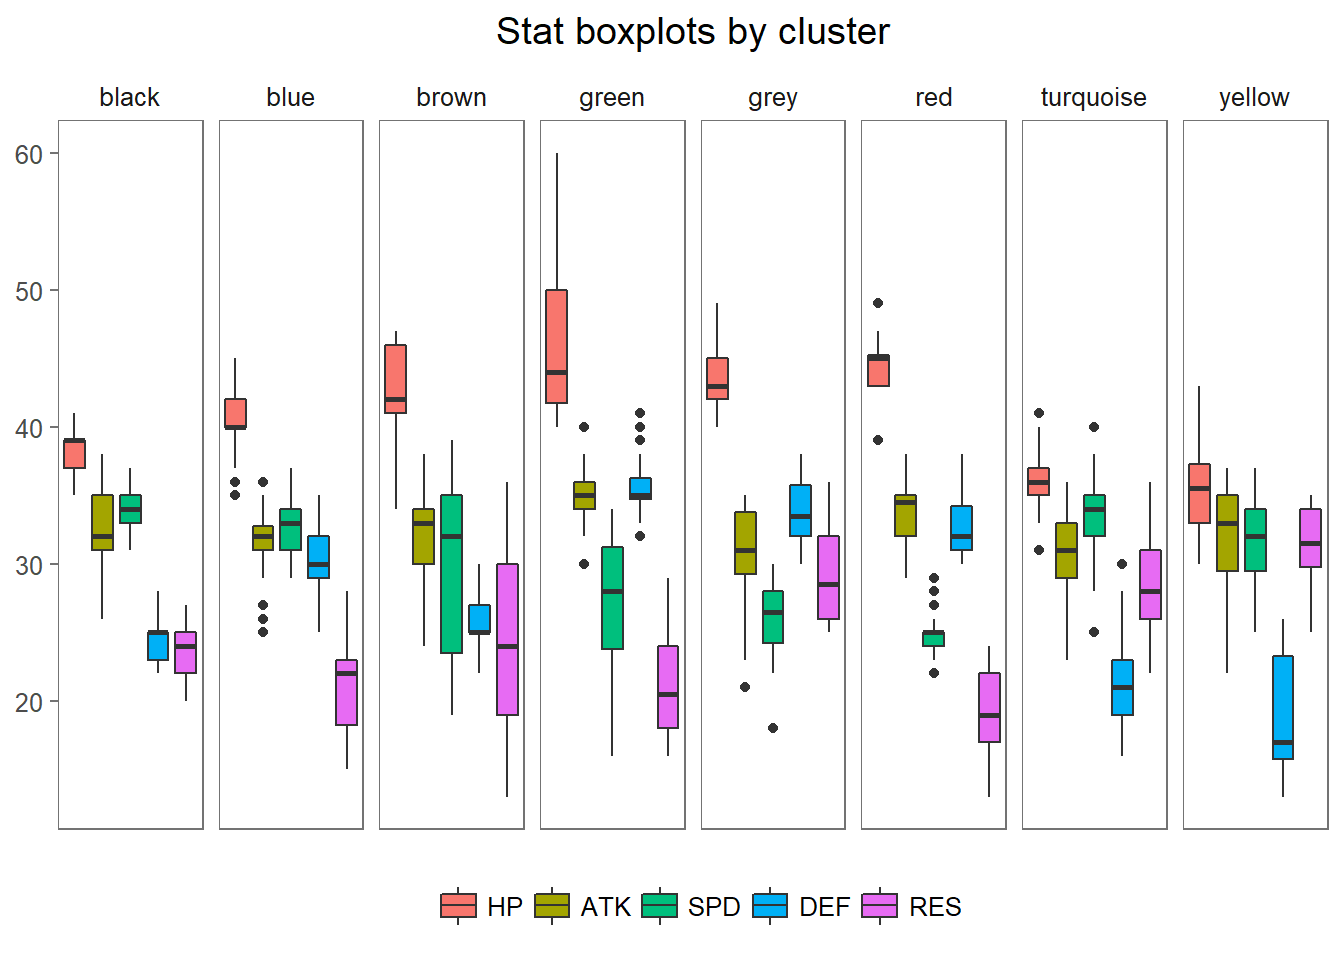
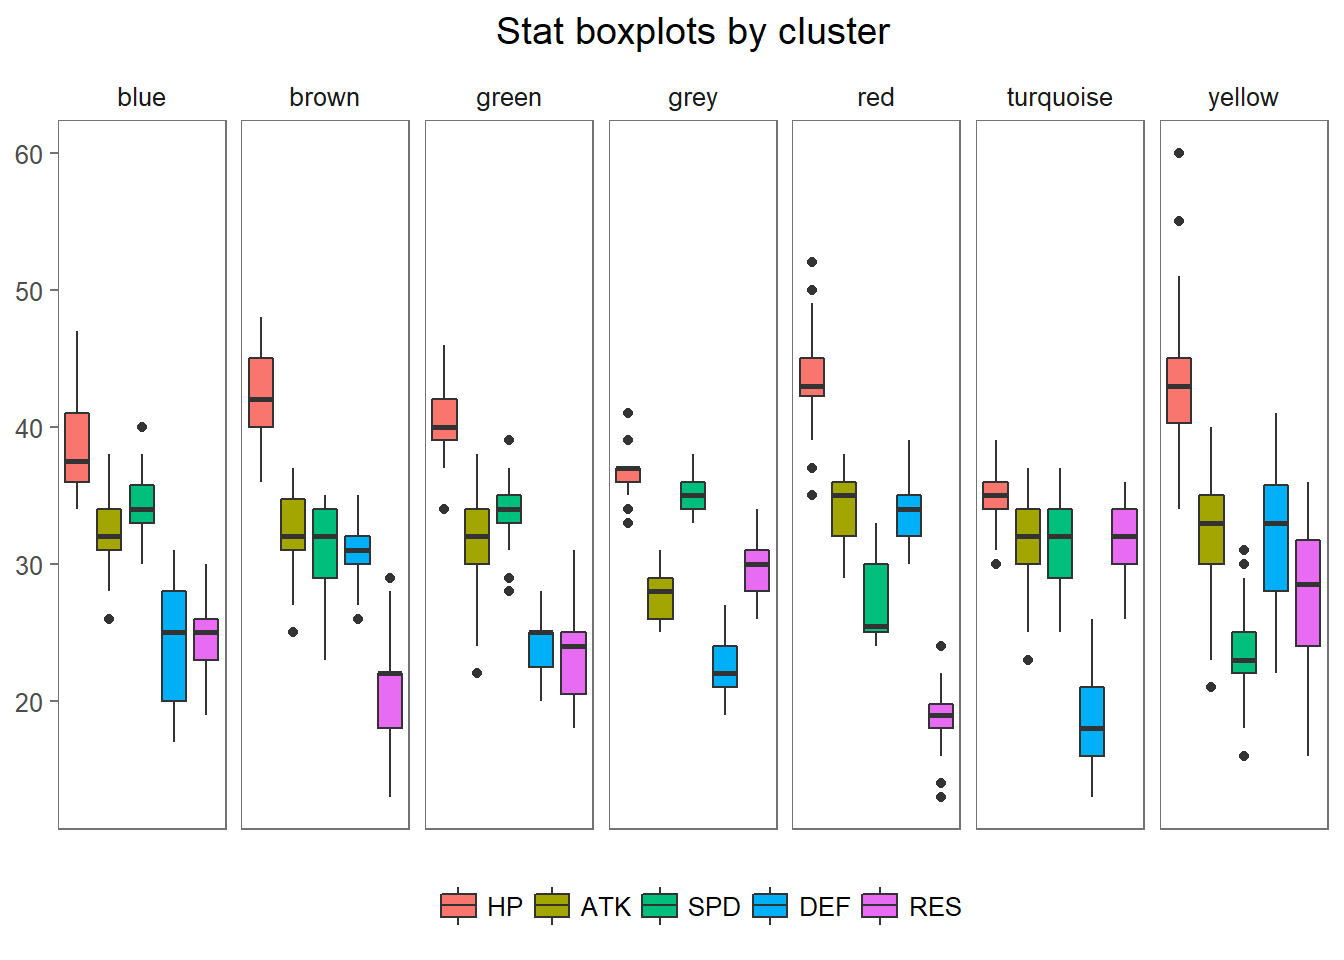
New FEH post

diff --git a/2018/04/05/analyzing-fire-emblem-heroes-data/index.html b/2018/04/05/analyzing-fire-emblem-heroes-data/index.html
@@ -61,7 +61,7 @@
 
   <article class="article">
     
-    <span class="article-duration">5 min read</span>
+    <span class="article-duration">9 min read</span>
     
 
     <h1 class="article-title">Analyzing Fire Emblem Heroes data</h1>
@@ -73,7 +73,8 @@
     <div class="article-content">
       <div id="introduction" class="section level1">
 <h1>Introduction</h1>
-<p>This is a continuation of my previous <a href="https://pedrostrusso.github.io/2018/04/04/fire-emblem-heroes-data-with-rvest/">post</a>, in which we scraped data about the mobile game Fire Emblem Heroes using the R package <code>rvest</code>. This time, we’re going to do some exploratory data analysis to get a better idea about the characters in the game.</p>
+<p>(Edited April 18th, 2018)</p>
+<p>This is a continuation of my previous <a href="https://pedrostrusso.github.io/2018/04/04/fire-emblem-heroes-data-with-rvest/">post</a>, in which we scraped data about the mobile game Fire Emblem Heroes using the R package <code>rvest</code>. This time, we’re going to do some exploratory data analysis to get a better idea about the characters in the game and do some clustering analysis on the characters.</p>
 </div>
 <div id="loading-libraries" class="section level1">
 <h1>Loading libraries</h1>
@@ -83,7 +84,8 @@ library(ggthemes)
 library(proxy)
 library(ggdendro)
 library(WGCNA)
-library(dynamicTreeCut)</code></pre>
+library(dynamicTreeCut)
+library(ggrepel)</code></pre>
 </div>
 <div id="data-analysis" class="section level1">
 <h1>Data analysis</h1>
@@ -111,9 +113,9 @@ ggplot(data=melt_stats, aes(value)) +
 <p><img src="/post/2018-04-05-analyzing-fire-emblem-heroes-data_files/figure-html/unnamed-chunk-4-1.png" width="672" /></p>
 <p>We can see that most heroes have an ATK stat of around 32, and that this stat’s distribution is not very wide, meaning that there is not that big a difference between individual units’ offensive power. The DEF stat, however, seems to be a bit more distributed among the characters. We can, of course, compute each stat’s variance and observe this.</p>
 <pre class="r"><code>var(max_stats$ATK)</code></pre>
-<pre><code>## [1] 11.87002</code></pre>
+<pre><code>## [1] 11.82872</code></pre>
 <pre class="r"><code>var(max_stats$DEF)</code></pre>
-<pre><code>## [1] 40.78422</code></pre>
+<pre><code>## [1] 40.5983</code></pre>
 <p>Anyway, let’s take a quick look at the BST column now. This can give us a quick-and-dirty idea of a unit’s overall power. It’s worth noting that the BST is also used by the game as a classification measure when pairing up players against each other in the Arena mode of the game, where players using characters with higher BSTs are pitted against each other. It also reflects in the number of points you get in the Arena, which allows you to challenge even stronger players given time. So let’s take a look at the heroes with the highest BST scores, which will maximize our Arena score (without considering other BST increasing factors, such as weapon power and skills).</p>
 <pre class="r"><code>top_heroes &lt;- max_stats[order(max_stats$BST, decreasing = F), ]
 top_heroes &lt;- tail(top_heroes, 20)
@@ -143,12 +145,14 @@ ggplot(top_heroes,
 </div>
 <div id="clustering-analysis" class="section level2">
 <h2>Clustering analysis</h2>
-<p>Let’s try using some clustering analysis techniques to see if we can see any kind of cluster of units based on their stats. With this we should be able to identify similarly built characters or archetypes. I’ll be using agglomerative clustering with the <code>hclust</code> function euclidean distance. Let’s remove our categorical variables and the BST column for now.</p>
+<p>Let’s try using some clustering analysis techniques to see if we can find any kind of cluster of units based on their stats. With this we should be able to identify similarly built characters or archetypes. First we’ll calculate the correlations between each hero’s stats to see how close each of them are. Then, we can use agglomerative clustering with the <code>hclust</code> function and euclidean distance to group our characters and visualize them in a dendrogram. Let’s remove our categorical variables and the BST column for now.</p>
 <pre class="r"><code>stats_only &lt;- max_stats[, -c(7, 8, 9)]
 rownames(stats_only) &lt;- stats_only$Name
 stats_only$Name &lt;- NULL
 
-d &lt;- proxy::dist(stats_only, method=&quot;euclidean&quot;)
+stats_cor &lt;- cor(t(stats_only))
+
+d &lt;- proxy::dist(stats_cor, method=&quot;euclidean&quot;)
 fit &lt;- hclust(d, method=&quot;ward.D&quot;)
 dend &lt;- ggdendro::dendro_data(fit)
 
@@ -165,7 +169,7 @@ dendro &lt;-
 
 dendro</code></pre>
 <p><img src="/post/2018-04-05-analyzing-fire-emblem-heroes-data_files/figure-html/unnamed-chunk-8-1.png" width="672" /></p>
-<p>I’ll use the <code>cutreeDynamic</code> function from the <code>dynamicTreeCut</code> package to cut our dendrogram into clusters. This package attempts to automatically define the best number of clusters based on the shape of the dendrogram, so we don’t have to worry about selecting an aribitrary number of clusters. I’ll also use the <code>labels2colors</code> function from the <code>WGCNA</code> package to obtain a color for each cluster underneath the dendrogram, and the <code>plotDendroAndColors</code> function so we can see the dendrogram. These packages were originally developed to visualize clusters of genes in Bioinformatics analyses. Gotta love that interdisciplinarity!</p>
+<p>I’ll use the <code>cutreeDynamic</code> function from the <code>dynamicTreeCut</code> package to cut our dendrogram into clusters. This package attempts to automatically define the best number of clusters based on the shape of the dendrogram, so we don’t have to worry about selecting an aribitrary number of clusters. I’ll also use the <code>labels2colors</code> function from the <code>WGCNA</code> package to obtain a color for each cluster underneath the dendrogram. These packages were originally developed to visualize clusters of genes in Bioinformatics analyses. Gotta love that interdisciplinarity!</p>
 <p>The WGCNA package also provides a function with base R to plot the dendrogram with colors, but since I prefer ggplot2, I’ll be using a few functions from the <code>grid</code> and <code>gridExtra</code> packages. A BIG shout out to the StackOverflow members in <a href="https://stackoverflow.com/questions/19926697/ggplot2-and-ggdendro-plotting-color-bars-under-the-node-leaves">this</a> and <a href="https://stackoverflow.com/questions/13294952/left-align-two-graph-edges-ggplot">this</a> topic for the insights in how to align a dendrogram and how to combine and align two ggplot graph images.</p>
 <pre class="r"><code>dynamicMods &lt;- dynamicTreeCut::cutreeDynamic(dendro=fit)                   
 dynamicColors &lt;- WGCNA::labels2colors(dynamicMods)
@@ -196,7 +200,7 @@ gp2$widths[2:5] &lt;- as.list(maxWidth)
 g &lt;- gridExtra::arrangeGrob(gp1, gp2, ncol=1,heights=c(9/10, 1/10))
 grid::grid.draw(g)</code></pre>
 <p><img src="/post/2018-04-05-analyzing-fire-emblem-heroes-data_files/figure-html/unnamed-chunk-9-1.png" width="672" /></p>
-<p>As we can see we got 8 nice clusters, with the turquoise cluster being the largest. Let’s include cluster information into our data and finish this post with a few boxplots so we can start getting a feel for each cluster.</p>
+<p>As we can see we got 7 nice clusters, with the turquoise cluster being the largest. As a side note, the <code>dynamicTreeCut</code> package reserves the “grey” color for elements which weren’t able to be assigned to any other cluster. Usually, one would discard this group, but I’ll keep it in this analysis just so we don’t lose any hero. Let’s include cluster information into our data and take a look at a few boxplots so we can get a feel for each cluster.</p>
 <pre class="r"><code>max_stats$label &lt;- dynamicColors
 
 max_stats2 &lt;- max_stats
@@ -216,6 +220,112 @@ ggplot(melt_stats2, aes(value)) +
           plot.title = element_text(hjust = 0.5)) +
     ggtitle(&quot;Stat boxplots by cluster&quot;)</code></pre>
 <p><img src="/post/2018-04-05-analyzing-fire-emblem-heroes-data_files/figure-html/unnamed-chunk-10-1.png" width="672" /></p>
+<p>We can also do principal component analysis to see how our clusters represent (most of) the variability of the data. We can see it’s not perfect, but there does seem to be some sense in our clustered points.</p>
+<pre class="r"><code>pca &lt;- prcomp(stats_only)
+
+df_out &lt;- as.data.frame(pca$x)
+df_out$label &lt;- max_stats$label
+head(df_out)</code></pre>
+<pre><code>##                                   PC1       PC2       PC3        PC4
+## Abel                        -1.727858  1.253100 -1.148936 -0.6118986
+## Alfonse                      8.626724 -2.674268 -2.592615 -0.7335428
+## Alfonse (Hares at the Fair)  5.765115  6.114256 -2.334997 -1.8918197
+## Alm                          5.058571  1.167998 -1.279048  2.4418803
+## Amelia                       9.378496  2.547198  2.816638 -1.8185376
+## Anna                        -6.465976  3.767082  3.455966  2.1557244
+##                                     PC5  label
+## Abel                        -0.33728966  green
+## Alfonse                      1.16584188    red
+## Alfonse (Hares at the Fair)  0.08645923  brown
+## Alm                         -1.94807904 yellow
+## Amelia                      -5.88638553  brown
+## Anna                        -4.38269169   grey</code></pre>
+<pre class="r"><code>ggplot(df_out,aes(x=PC1, y=PC2, color=label)) +
+    scale_color_identity() +
+    geom_point(size = 5) + 
+    theme_few() +
+    ggtitle(&quot;Principal Component Analysis&quot;) +
+    theme(plot.title = element_text(hjust = 0.5))</code></pre>
+<p><img src="/post/2018-04-05-analyzing-fire-emblem-heroes-data_files/figure-html/unnamed-chunk-11-1.png" width="672" /></p>
+<p>We can use <code>geom_text</code> to check out the units in each cluster:</p>
+<pre class="r"><code>ggplot(df_out,aes(x=PC1, y=PC2, color=label)) +
+    scale_color_identity() +
+    geom_point(size = 5) + 
+    geom_text(label=rownames(df_out), size=3, color=&quot;black&quot;) +
+    theme_few() +
+    ggtitle(&quot;Principal Component Analysis&quot;) +
+    theme(plot.title = element_text(hjust = 0.5))</code></pre>
+<p><img src="/post/2018-04-05-analyzing-fire-emblem-heroes-data_files/figure-html/unnamed-chunk-12-1.png" width="672" /></p>
+<p>We can now use the <code>by</code> function to find the average stats of heroes within each cluster:</p>
+<pre class="r"><code>stats_label &lt;- as.data.frame(cbind(stats_only, max_stats$label))
+names(stats_label) &lt;- c(&quot;HP&quot;, &quot;ATK&quot;, &quot;SPD&quot;, &quot;DEF&quot;, &quot;RES&quot;, &quot;label&quot;)
+res &lt;- by(stats_label[, 1:5], stats_label$label, colMeans)</code></pre>
+<p>The stats inside each element of the <code>res</code> list are the average stats of the heroes within each cluster. We can consider these stats, therefore as a sort of representative character for each color group. Let’s try to see now which hero within each cluster is the closest to this average. To do this, we’ll take each group of heroes, subtract the stats of our average hero and take the absolute value of the results, average them for each hero to get a distance measure, and see which hero has the lowest distance.</p>
+<pre class="r"><code>reps &lt;- sapply(unique(as.character(stats_label$label)), USE.NAMES=FALSE, function(color){
+    color_rep &lt;- res[[color]]
+    color_chars &lt;- stats_label[stats_label$label == color,]
+    color_chars$label &lt;- NULL
+    diff_df &lt;- t(abs(t(color_chars) - color_rep))
+    char_dist &lt;- rowSums(diff_df)/ncol(diff_df)
+    closest_char &lt;- char_dist[which.min(char_dist)]
+})
+
+reps_df &lt;- as.data.frame(cbind(unique(as.character(stats_label$label)), reps))
+names(reps_df) &lt;- c(&quot;cluster&quot;, &quot;distance_to_mean&quot;)
+reps_df</code></pre>
+<pre><code>##                                cluster  distance_to_mean
+## Roderick                         green 0.514285714285715
+## Michalis                           red 0.630769230769231
+## Sharena                          brown  1.05789473684211
+## Reinhardt (World of Thracia)    yellow  1.68421052631579
+## Titania                           grey 0.861538461538463
+## L&#39;Arachel                    turquoise  1.10222222222222
+## Catria                            blue  1.33809523809524</code></pre>
+<p>We can now take a look at our PCA plot again and check that our representative heroes lie somewhat centralized in their own clusters:</p>
+<pre class="r"><code>reps &lt;- rownames(reps_df)
+chars &lt;- rownames(df_out)
+
+chars[!chars %in% reps] &lt;- &quot;&quot;
+
+ggplot(df_out,aes(x=PC1, y=PC2, color=label)) +
+    scale_color_identity() +
+    geom_point(size = 5) + 
+    geom_text_repel(label=chars, size=3, color=&quot;black&quot;) +
+    theme_few() +
+    ggtitle(&quot;Principal Component Analysis&quot;) +
+    theme(plot.title = element_text(hjust = 0.5))</code></pre>
+<p><img src="/post/2018-04-05-analyzing-fire-emblem-heroes-data_files/figure-html/unnamed-chunk-15-1.png" width="672" /></p>
+<p>To finish things off, let’s take a look at how movement and weapon types are arranged within each cluster. I couldn’t really decide on a better way to visualize this information, so here are two I could come up with:</p>
+<p>A faceted stacked barplot</p>
+<pre class="r"><code>ggplot(max_stats, aes(x=factor(WeaponType))) +
+    geom_bar(stat=&quot;count&quot;, aes(fill=max_stats$MoveType)) +
+    xlab(label=&quot;Weapon type&quot;) +
+    ylab(label=&quot;Count&quot;) +
+    theme(legend.title = element_blank(),
+          plot.title = element_text(hjust = 0.5)) + 
+    coord_flip() +
+    facet_wrap(~label) +
+    ggtitle(&quot;Movement and weapon types by cluster&quot;)</code></pre>
+<p><img src="/post/2018-04-05-analyzing-fire-emblem-heroes-data_files/figure-html/unnamed-chunk-16-1.png" width="672" /></p>
+<p>A faceted bubble chart (once again, thanks to SO for this <a href="https://stackoverflow.com/questions/15840926/categorical-bubble-plot-for-mapping-studies">link</a>)</p>
+<pre class="r"><code>counts &lt;- paste(max_stats$WeaponType, max_stats$MoveType, max_stats$label)
+
+max_stats$category &lt;- counts
+max_stats$size &lt;- as.numeric(table(max_stats$category)[max_stats$category])
+max_stats$radius &lt;- sqrt(max_stats$size / pi)
+
+ggplot(max_stats, aes(x=factor(WeaponType), y=MoveType)) +
+    geom_point(aes(size=radius*7.5), shape=21, fill=&quot;white&quot;) + 
+    geom_text(aes(label=size), size=4, color = &quot;black&quot;) +
+    scale_size_identity() +
+    xlab(label=&quot;Weapon type&quot;) +
+    ylab(label=&quot;Move type&quot;) +
+    theme(axis.text.x = element_text(angle=90),
+          plot.title = element_text(hjust = 0.5)) + 
+    facet_wrap(~label) +
+    ggtitle(&quot;Movement and weapon types by cluster&quot;)</code></pre>
+<p><img src="/post/2018-04-05-analyzing-fire-emblem-heroes-data_files/figure-html/unnamed-chunk-17-1.png" width="672" /></p>
+<p>These plots give us a pretty good idea about the composition of each of our clusters. We can see that while Red Sword Infantry characters are dominant in the cast, they’re mostly concentrated in the blue, brown and green clusters. Also, the yellow group seems to be where most armored users wound up. Finally, the most common characters in the turquoise group are mages and staff users. As we can see in our previous boxplots, the turquoise groups is also the one with characters with low defense and HP, and very high resistance, a common stat distribution for magic users like these.</p>
 </div>
 </div>
 
